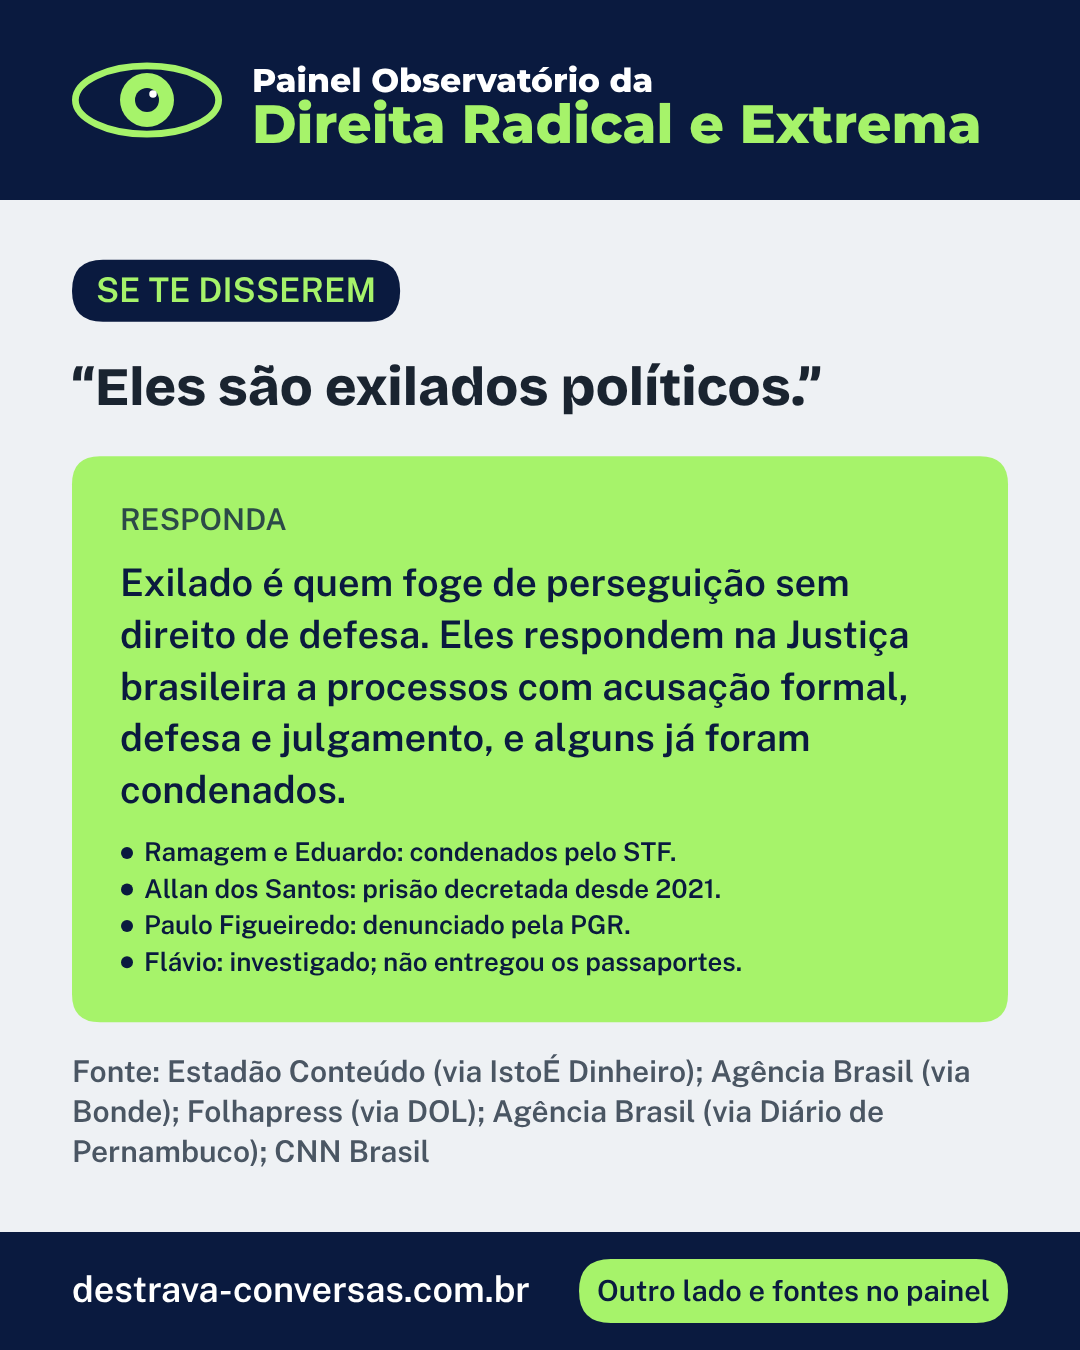
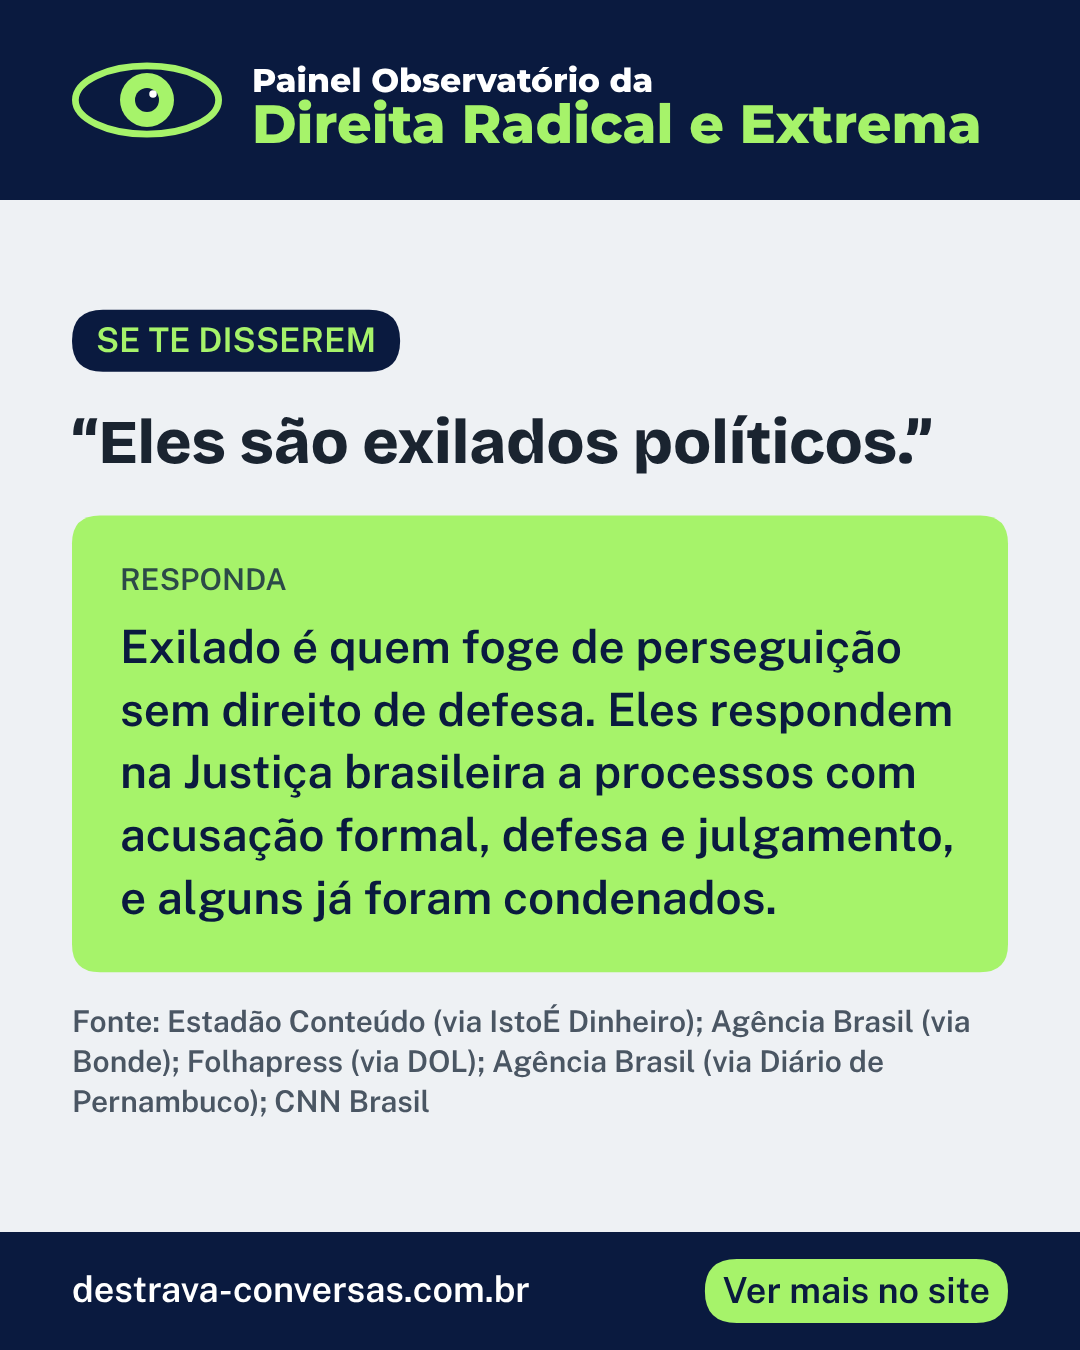
Imagens de argumento de bolso e Se te disserem; resposta só com o argumento principal e Ver mais no site
Claude-Session: https://claude.ai/code/session_019sqQLQxs8FDq3ncQbS4ufe

Changed region(s): [[0.0611, 0.1867, 0.9472, 0.8711], [0.5194, 0.9333, 0.9167, 0.9956]]

diff --git a/se-te-disserem/index.html b/se-te-disserem/index.html
@@ -22,7 +22,7 @@
 <meta name="twitter:card" content="summary_large_image">
 <meta name="twitter:image" content="https://destrava-conversas.com.br/observatoriodireitaradical/og-observatorio.jpg">
 <link href="https://fonts.googleapis.com/css2?family=Bricolage+Grotesque:opsz,wght@12..96,600;12..96,800&amp;family=Montserrat:wght@800&amp;family=Public+Sans:wght@400;500;600&amp;display=swap" rel="stylesheet">
-<link rel="stylesheet" href="../css/painel.css?v=20261027d">
+<link rel="stylesheet" href="../css/painel.css?v=20261027e">
 </head>
 <body>
 <div class="topbar" id="topo">
@@ -61,7 +61,7 @@
   <section id="respostas" aria-labelledby="h-resp">
     <h2 id="h-resp" class="sr">Frases e respostas</h2>
     <ol class="rsp">
-      <li class="rsp-i" id="exilados" data-img="Ramagem e Eduardo: condenados pelo STF. | Allan dos Santos: prisão decretada desde 2021. | Paulo Figueiredo: denunciado pela PGR. | Flávio: investigado; não entregou os passaportes.">
+      <li class="rsp-i" id="exilados">
         <p class="rsp-q"><span class="rsp-k">Se te disserem</span>“Eles são exilados políticos.”</p>
         <p class="rsp-a"><span class="rsp-k">Responda</span>Exilado é quem foge de perseguição sem direito de defesa. Eles respondem na Justiça brasileira a processos com acusação formal, defesa e julgamento, e alguns já foram condenados.</p>
         <ul class="rsp-d"><li><b>Alexandre Ramagem:</b> condenado pelo STF a 16 anos na trama golpista; fugiu durante o julgamento, pela Guiana, e foi detido pelo serviço de imigração dos EUA em abril de 2026.</li><li><b>Eduardo Bolsonaro:</b> condenado pelo STF a 4 anos e 2 meses por coação no processo do pai; vive nos EUA desde 2025.</li><li><b>Allan dos Santos:</b> tem prisão preventiva decretada desde 2021 e é considerado foragido; vive nos EUA.</li><li><b>Paulo Figueiredo:</b> denunciado pela PGR por coação e na trama golpista; vive nos EUA.</li><li><b>Flávio Bolsonaro:</b> investigado por lavagem de dinheiro e evasão de divisas; não entregou os passaportes que o STF mandou recolher e, segundo aliados, deixou o país.</li></ul>
@@ -142,13 +142,13 @@ if(navigator.clipboard&&navigator.clipboard.writeText){navigator.clipboard.write
   </footer>
 </main>
 
-<script src="../data/base.js?v=20261027d"></script>
-<script src="../data/acoes.js?v=20261027d"></script>
-<script src="../data/fontes.js?v=20261027d"></script>
-<script src="../data/sinais.js?v=20261027d"></script>
-<script src="../data/rede.js?v=20261027d"></script>
-<script src="../data/flavio.js?v=20261027d"></script>
-<script src="../js/app.js?v=20261027d"></script>
+<script src="../data/base.js?v=20261027e"></script>
+<script src="../data/acoes.js?v=20261027e"></script>
+<script src="../data/fontes.js?v=20261027e"></script>
+<script src="../data/sinais.js?v=20261027e"></script>
+<script src="../data/rede.js?v=20261027e"></script>
+<script src="../data/flavio.js?v=20261027e"></script>
+<script src="../js/app.js?v=20261027e"></script>
 <script data-goatcounter="https://destrava-conversas.goatcounter.com/count" async src="https://gc.zgo.at/count.js"></script>
 </body>
 </html>

diff --git a/tools/paginas/_respostas.html b/tools/paginas/_respostas.html
@@ -1,7 +1,7 @@
   <section id="respostas" aria-labelledby="h-resp">
     <h2 id="h-resp" class="sr">Frases e respostas</h2>
     <ol class="rsp">
-      <li class="rsp-i" id="exilados" data-img="Ramagem e Eduardo: condenados pelo STF. | Allan dos Santos: prisão decretada desde 2021. | Paulo Figueiredo: denunciado pela PGR. | Flávio: investigado; não entregou os passaportes.">
+      <li class="rsp-i" id="exilados">
         <p class="rsp-q"><span class="rsp-k">Se te disserem</span>“Eles são exilados políticos.”</p>
         <p class="rsp-a"><span class="rsp-k">Responda</span>Exilado é quem foge de perseguição sem direito de defesa. Eles respondem na Justiça brasileira a processos com acusação formal, defesa e julgamento, e alguns já foram condenados.</p>
         <ul class="rsp-d"><li><b>Alexandre Ramagem:</b> condenado pelo STF a 16 anos na trama golpista; fugiu durante o julgamento, pela Guiana, e foi detido pelo serviço de imigração dos EUA em abril de 2026.</li><li><b>Eduardo Bolsonaro:</b> condenado pelo STF a 4 anos e 2 meses por coação no processo do pai; vive nos EUA desde 2025.</li><li><b>Allan dos Santos:</b> tem prisão preventiva decretada desde 2021 e é considerado foragido; vive nos EUA.</li><li><b>Paulo Figueiredo:</b> denunciado pela PGR por coação e na trama golpista; vive nos EUA.</li><li><b>Flávio Bolsonaro:</b> investigado por lavagem de dinheiro e evasão de divisas; não entregou os passaportes que o STF mandou recolher e, segundo aliados, deixou o país.</li></ul>

diff --git a/quem-sao-eles/index.html b/quem-sao-eles/index.html
@@ -22,7 +22,7 @@
 <meta name="twitter:card" content="summary_large_image">
 <meta name="twitter:image" content="https://destrava-conversas.com.br/observatoriodireitaradical/og-observatorio.jpg">
 <link href="https://fonts.googleapis.com/css2?family=Bricolage+Grotesque:opsz,wght@12..96,600;12..96,800&amp;family=Montserrat:wght@800&amp;family=Public+Sans:wght@400;500;600&amp;display=swap" rel="stylesheet">
-<link rel="stylesheet" href="../css/painel.css?v=20261027d">
+<link rel="stylesheet" href="../css/painel.css?v=20261027e">
 </head>
 <body>
 <div class="pxbar" id="pxbar" hidden>
@@ -200,13 +200,13 @@
   </footer>
 </main>
 
-<script src="../data/base.js?v=20261027d"></script>
-<script src="../data/acoes.js?v=20261027d"></script>
-<script src="../data/fontes.js?v=20261027d"></script>
-<script src="../data/sinais.js?v=20261027d"></script>
-<script src="../data/rede.js?v=20261027d"></script>
-<script src="../data/flavio.js?v=20261027d"></script>
-<script src="../js/app.js?v=20261027d"></script>
+<script src="../data/base.js?v=20261027e"></script>
+<script src="../data/acoes.js?v=20261027e"></script>
+<script src="../data/fontes.js?v=20261027e"></script>
+<script src="../data/sinais.js?v=20261027e"></script>
+<script src="../data/rede.js?v=20261027e"></script>
+<script src="../data/flavio.js?v=20261027e"></script>
+<script src="../js/app.js?v=20261027e"></script>
 <script data-goatcounter="https://destrava-conversas.goatcounter.com/count" async src="https://gc.zgo.at/count.js"></script>
 </body>
 </html>

diff --git a/index.html b/index.html
@@ -21,7 +21,7 @@
 <meta name="twitter:card" content="summary_large_image">
 <meta name="twitter:image" content="https://destrava-conversas.com.br/observatoriodireitaradical/og-observatorio.jpg">
 <link href="https://fonts.googleapis.com/css2?family=Bricolage+Grotesque:opsz,wght@12..96,600;12..96,800&amp;family=Montserrat:wght@800&amp;family=Public+Sans:wght@400;500;600&amp;display=swap" rel="stylesheet">
-<link rel="stylesheet" href="css/painel.css?v=20261027d">
+<link rel="stylesheet" href="css/painel.css?v=20261027e">
 </head>
 <body>
 <div class="pickbar" id="pickbar" role="region" aria-label="Seleção atual" hidden>
@@ -270,13 +270,13 @@
   </footer>
 </main>
 
-<script src="data/base.js?v=20261027d"></script>
-<script src="data/acoes.js?v=20261027d"></script>
-<script src="data/fontes.js?v=20261027d"></script>
-<script src="data/sinais.js?v=20261027d"></script>
-<script src="data/rede.js?v=20261027d"></script>
-<script src="data/flavio.js?v=20261027d"></script>
-<script src="js/app.js?v=20261027d"></script>
+<script src="data/base.js?v=20261027e"></script>
+<script src="data/acoes.js?v=20261027e"></script>
+<script src="data/fontes.js?v=20261027e"></script>
+<script src="data/sinais.js?v=20261027e"></script>
+<script src="data/rede.js?v=20261027e"></script>
+<script src="data/flavio.js?v=20261027e"></script>
+<script src="js/app.js?v=20261027e"></script>
 <script data-goatcounter="https://destrava-conversas.goatcounter.com/count" async src="https://gc.zgo.at/count.js"></script>
 </body>
 </html>

diff --git a/metodo/index.html b/metodo/index.html
@@ -22,7 +22,7 @@
 <meta name="twitter:card" content="summary_large_image">
 <meta name="twitter:image" content="https://destrava-conversas.com.br/observatoriodireitaradical/og-observatorio.jpg">
 <link href="https://fonts.googleapis.com/css2?family=Bricolage+Grotesque:opsz,wght@12..96,600;12..96,800&amp;family=Montserrat:wght@800&amp;family=Public+Sans:wght@400;500;600&amp;display=swap" rel="stylesheet">
-<link rel="stylesheet" href="../css/painel.css?v=20261027d">
+<link rel="stylesheet" href="../css/painel.css?v=20261027e">
 </head>
 <body>
 <div class="topbar" id="topo">
@@ -118,13 +118,13 @@
   </footer>
 </main>
 
-<script src="../data/base.js?v=20261027d"></script>
-<script src="../data/acoes.js?v=20261027d"></script>
-<script src="../data/fontes.js?v=20261027d"></script>
-<script src="../data/sinais.js?v=20261027d"></script>
-<script src="../data/rede.js?v=20261027d"></script>
-<script src="../data/flavio.js?v=20261027d"></script>
-<script src="../js/app.js?v=20261027d"></script>
+<script src="../data/base.js?v=20261027e"></script>
+<script src="../data/acoes.js?v=20261027e"></script>
+<script src="../data/fontes.js?v=20261027e"></script>
+<script src="../data/sinais.js?v=20261027e"></script>
+<script src="../data/rede.js?v=20261027e"></script>
+<script src="../data/flavio.js?v=20261027e"></script>
+<script src="../js/app.js?v=20261027e"></script>
 <script data-goatcounter="https://destrava-conversas.goatcounter.com/count" async src="https://gc.zgo.at/count.js"></script>
 </body>
 </html>

diff --git a/tools/render-sinais.js b/tools/render-sinais.js
@@ -101,7 +101,7 @@ function serve() {
     const a = un((body.match(/<p class="rsp-a">([\s\S]*?)<\/p>/) || [])[1] || '').replace(/^Responda/, '');
     const f = un((body.match(/<p class="rsp-s">([\s\S]*?)<\/p>/) || [])[1] || '').replace(/^Fonte:\s*/, '');
     const xm = m[0].match(/data-img="([^"]*)"/); const extra = xm ? un(xm[1]).split(' | ') : null;
-    const d = await panel.evaluate(o => window.__bolsoCanvas(o).toDataURL('image/png'), { kick: 'SE TE DISSEREM', quote: q, label: 'Responda', text: a, fonte: f, extra: extra });
+    const d = await panel.evaluate(o => window.__bolsoCanvas(o).toDataURL('image/png'), { kick: 'SE TE DISSEREM', quote: q, label: 'Responda', text: a, fonte: f, extra: extra, cta: 'Ver mais no site' });
     fs.writeFileSync(path.join(outR, id + '.png'), png(d)); nr++;
   }
   console.log('Argumentos de bolso:', nb, '· respostas:', nr);

diff --git a/js/app.js b/js/app.js
@@ -1645,7 +1645,7 @@
     if(L.xl.length){ var xy=ty+L.tl.length*L.ts*1.36+18; g.font='600 '+L.xs+'px '+SANS; L.xl.forEach(function(x,i){ var yy=xy+L.xs*0.95+i*L.xs*1.4; if(x.b){ g.beginPath(); g.arc(P+BP+7, yy-L.xs*0.32, 6, 0, Math.PI*2); g.fill(); } g.fillText(x.t, P+BP+24, yy); }); }
     y+=L.th+30;
     if(o.fonte){ g.font='600 30px '+SANS; g.fillStyle='#4A5663'; L.fl.forEach(function(ln,i){ g.fillText(ln, P, y+30+i*40); }); }
-    shareFoot(g, W, H, P, FOOTH, SANS, 'Outro lado e fontes no painel');
+    shareFoot(g, W, H, P, FOOTH, SANS, o.cta || 'Outro lado e fontes no painel');
     return c;
   }
   window.__bolsoCanvas=function(o){ return bolsoCanvas(o); };
